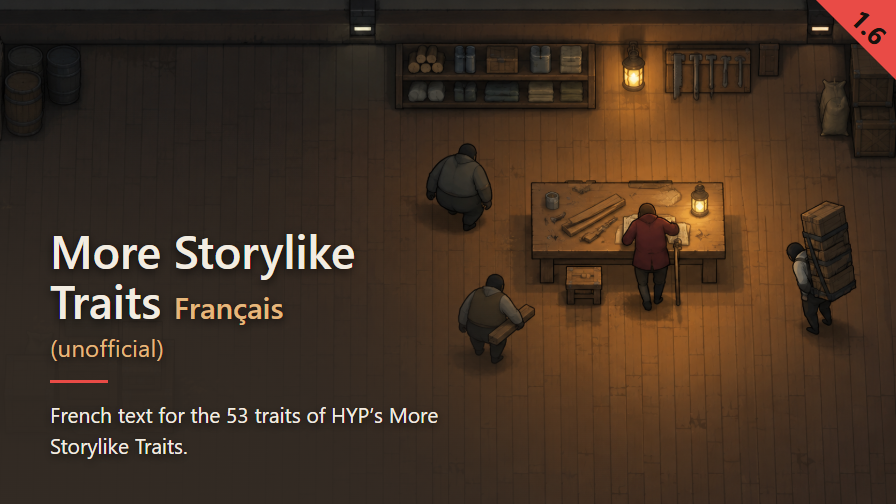
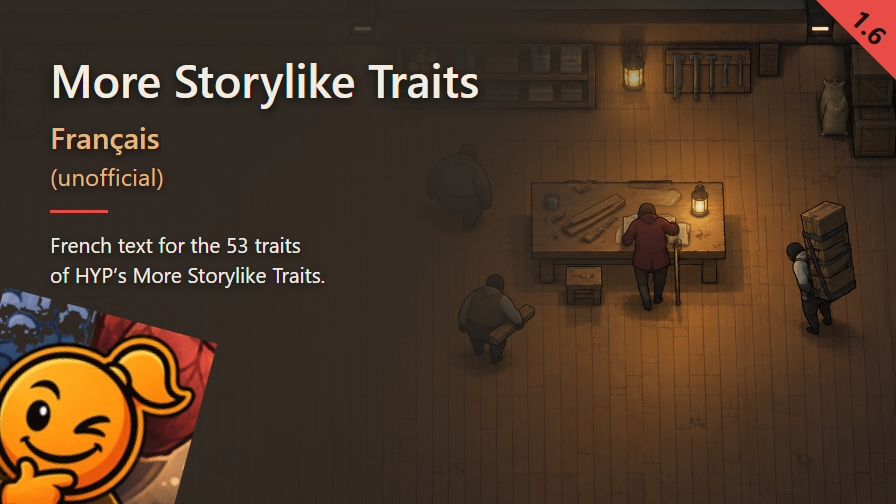
Preview: render with the shared Render-Preview.cjs and Make-PreviewBadge.ps1

diff --git a/Art/Preview-layout.html b/Art/Preview-layout.html
@@ -1,0 +1,15 @@
+<!doctype html><meta charset="utf-8"><style>
+:root{--veil:#332B24;--inkPrimary:#F2ECE1;--inkSecondary:#E5B77C;--accent:#E94B46;--badgeInk:#17120E}*{margin:0;padding:0;box-sizing:border-box}
+html,body{width:896px;height:504px;overflow:hidden;font-family:"Segoe UI",system-ui,sans-serif}
+body{background:url(Preview.png) center/cover}
+.veil{position:absolute;inset:0;background:radial-gradient(circle at 0% 0%,rgba(51,43,36,.86) 0%,rgba(51,43,36,.86) 48%,rgba(51,43,36,0) 74%)}
+.copy{position:absolute;left:50px;top:54px;width:430px;color:var(--inkPrimary);text-shadow:0 3px 10px rgba(0,0,0,.75)}
+h1{font-size:46px;font-weight:600;line-height:1.1;letter-spacing:0}
+.suffix{font-size:.65em;color:var(--inkSecondary)}
+.tag{font-size:24px;font-weight:400;line-height:1.1;letter-spacing:.2px;margin-top:8px;color:var(--inkSecondary)}
+.rule{width:58px;height:3px;background:var(--accent);margin:20px 0 16px}
+p{font-size:21px;font-weight:400;line-height:1.45;width:430px;letter-spacing:0;color:var(--inkPrimary)}
+.badge{position:absolute;right:0;top:0;width:80px;height:80px;background:var(--accent);clip-path:polygon(0 0,100% 0,100% 100%)}
+.version{position:absolute;left:869px;top:27px;transform:translate(-50%,-50%) rotate(45deg);font-size:26px;font-weight:700;line-height:1;color:var(--badgeInk)}
+.icon-badge{position:absolute;left:0;bottom:0;width:220px;transform:translate(-12.5%,12.5%) rotate(15deg)}
+</style><div class="veil"></div><div class="copy"><h1><span class="title-main">More Storylike Traits</span><br><span class="suffix">Français</span></h1><div class="tag">(unofficial)</div><div class="rule"></div><p>French text for the 53 traits<br>of HYP’s More Storylike Traits.</p></div><div class="badge"></div><div class="version">1.6</div><img class="icon-badge" src="ModIcon-badge.png">

diff --git a/Art/README.md b/Art/README.md
@@ -1,16 +1,21 @@
 # Art sources
 
-## Current composition — 2026-09-13
+## Current composition — 2026-09-29
 
-The current Preview is generated by `node Art/Build-Preview.cjs`, using the HTML template
-and preview-palette.json. See Tests/README.md for runtime requirements. The original
-Preview-source.png remains untouched. Warm wood supplies the veil and secondary ink;
-the red coat supplies the separate accent. The title now reads "Français", with an
-unofficial tag and a 1.6 badge derived from About.xml. Segoe UI and the prescribed
-hierarchy are used. Full-size and 268px outputs were directly inspected; automated
-contrast measurements and QA images are under .build/preview-qa. Tests/RESULTS.json
-records the resulting payload identities. The earlier production notes below are
-preserved as history; their old rendering command and layout no longer apply.
+`Mod/About/Preview.png` is rendered by the shared monorepo scripts, run from the repository root:
+
+```bash
+powershell -File ../scripts/Make-PreviewBadge.ps1 -SaveTrimmedIconTo Art/ModIcon-badge.png   # only when ModIcon.png changes
+node ../scripts/Render-Preview.cjs
+```
+
+Inputs: `Art/Preview.png` (the text-free background, a copy of `Preview-source.png`), `Art/preview-copy.json`
+(title, suffix, tag, summary, icon badge corner), `Art/preview-palette.json`, `Mod/About/About.xml` (the
+version badge). Outputs: `Mod/About/Preview.png`, `Art/Preview-layout.html`, `Art/Preview-qa.json`,
+`Art/Preview-background-qa.png`. The layout is the shared one: text top left, icon badge bottom left, version
+badge top right. Measured on 2026-09-29: 471 KB, contrast minimum 4.92 (version badge), 7.21 or more for the text.
+The icon has a painted background, so the badge is a tilted square rather than a cut-out head.
+The earlier hand-made `Build-Preview.cjs` and `preview.html` (text bottom left, no icon) were retired.
 
 Never published. The Workshop uploader sends `Mod/` and only `Mod/`, so full-resolution sources
 live here and the finished files live in `Mod/About/`.
@@ -31,24 +36,6 @@ visible tile rhythm, desaturated earth base, one warm lamp pool against cold amb
 small dark silhouettes seen from above and behind, and a worn utilitarian room. **No face.**
 
 Two vivid things, which is the limit: the lamp pool and the red coat.
-
-## `preview.html` — the engraving
-
-`Mod/About/Preview.png` is this page rasterised at 896 x 504 by headless Chrome, so the glyphs are
-composed at final size and never resampled:
-
-```bash
-chrome --headless --disable-gpu --hide-scrollbars --force-device-scale-factor=1 \
-       --screenshot=Mod/About/Preview.png --window-size=896,504 Art/preview.html
-```
-
-The page scales `Preview-source.png` itself rather than taking an already-reduced PNG, so the
-picture is resampled once. The source is already 16:9, so no crop is involved. Result: 475 KB.
-
-The engraved count is allowed here under the guide's rule — a number is only carved when nothing
-outside this repository can move it. The source mod is dead and frozen at 53 traits, and the
-content is ours, the same exception that lets Race to the Rim carve "Fourteen dragons". The
-summary line is lifted from the `About.xml` description rather than written for the image.
 
 ## `ModIcon-source.png` — 1672 x 941, 1876 KB
 

diff --git a/STATUS.md b/STATUS.md
@@ -33,7 +33,7 @@ translation. The port is on the `for-lin` branch; its history and old status are
 - **Content:** 166 DefInjected keys, 53 traits and 31 thoughts, keyed on Lin's labels. `Check-DefInjected` against Lin's `1.6` folder and DLL: 0 errors.
 - **Settings:** none, text only. **English:** not applicable, it comes from the target's Defs.
 - **Dependencies:** `SevenColorType.Hyperionc` in `modDependencies` and `loadAfter`; a translation does nothing without it.
-- **Images:** 128 x 128 icon kept; Preview 896 x 504, 453 KB, overlay bottom left, retitled *Français* (contrast min 4.92).
+- **Images:** 128 x 128 icon kept; Preview 896 x 504, 471 KB, rendered by the shared `scripts/Render-Preview.cjs` (text top left, icon badge bottom left), retitled *Français* (contrast min 4.92).
 - **Not published:** no `PublishedFileId.txt`. `main` and `for-lin` pushed 2026-09-29.
 - **Next transition:** done -> tested: play both Pickle passes through the worker, then the wording read in TESTING.md "In game".
 

diff --git a/docs/runs/history.md b/docs/runs/history.md
@@ -6,3 +6,4 @@ One line per run. Evidence itself stays on disk under `Tests/Pickle/Evidence/`, 
 - 2026-09-29 316476a: WorkerTests 20/20, XmlFields clean, DefRefs(Core) 84 defs clean, DefInjected 548 keys 0 errors. test_xml.py NOT rerun (no Python on this machine, only the Store stub). No in-game run, no Pickle run.
 - 2026-09-29: Preview overlay moved to the bottom left (Art/preview.html), 896x504, 452370 bytes, contrast min 4.92 (badge), title 8.13. Rebuilt with NODE_PATH borrowed from AdaptiveStorageNeolithicRenew/node_modules.
 - 2026-09-29 d72f234->: repo turned into the French translation of HYP Continued; Check-DefInjected 166 keys 0 errors against Lin 1.6; Preview rebuilt 896x504 453420 bytes. Out of game.
+- 2026-09-29: Preview switched to the shared scripts/Render-Preview.cjs + Make-PreviewBadge.ps1 (Art/preview-copy.json, ModIcon-badge.png), 896x504, 470695 bytes, contrast min 4.92 (badge), text >= 7.21. Overlay is now top left with the icon badge bottom left.
